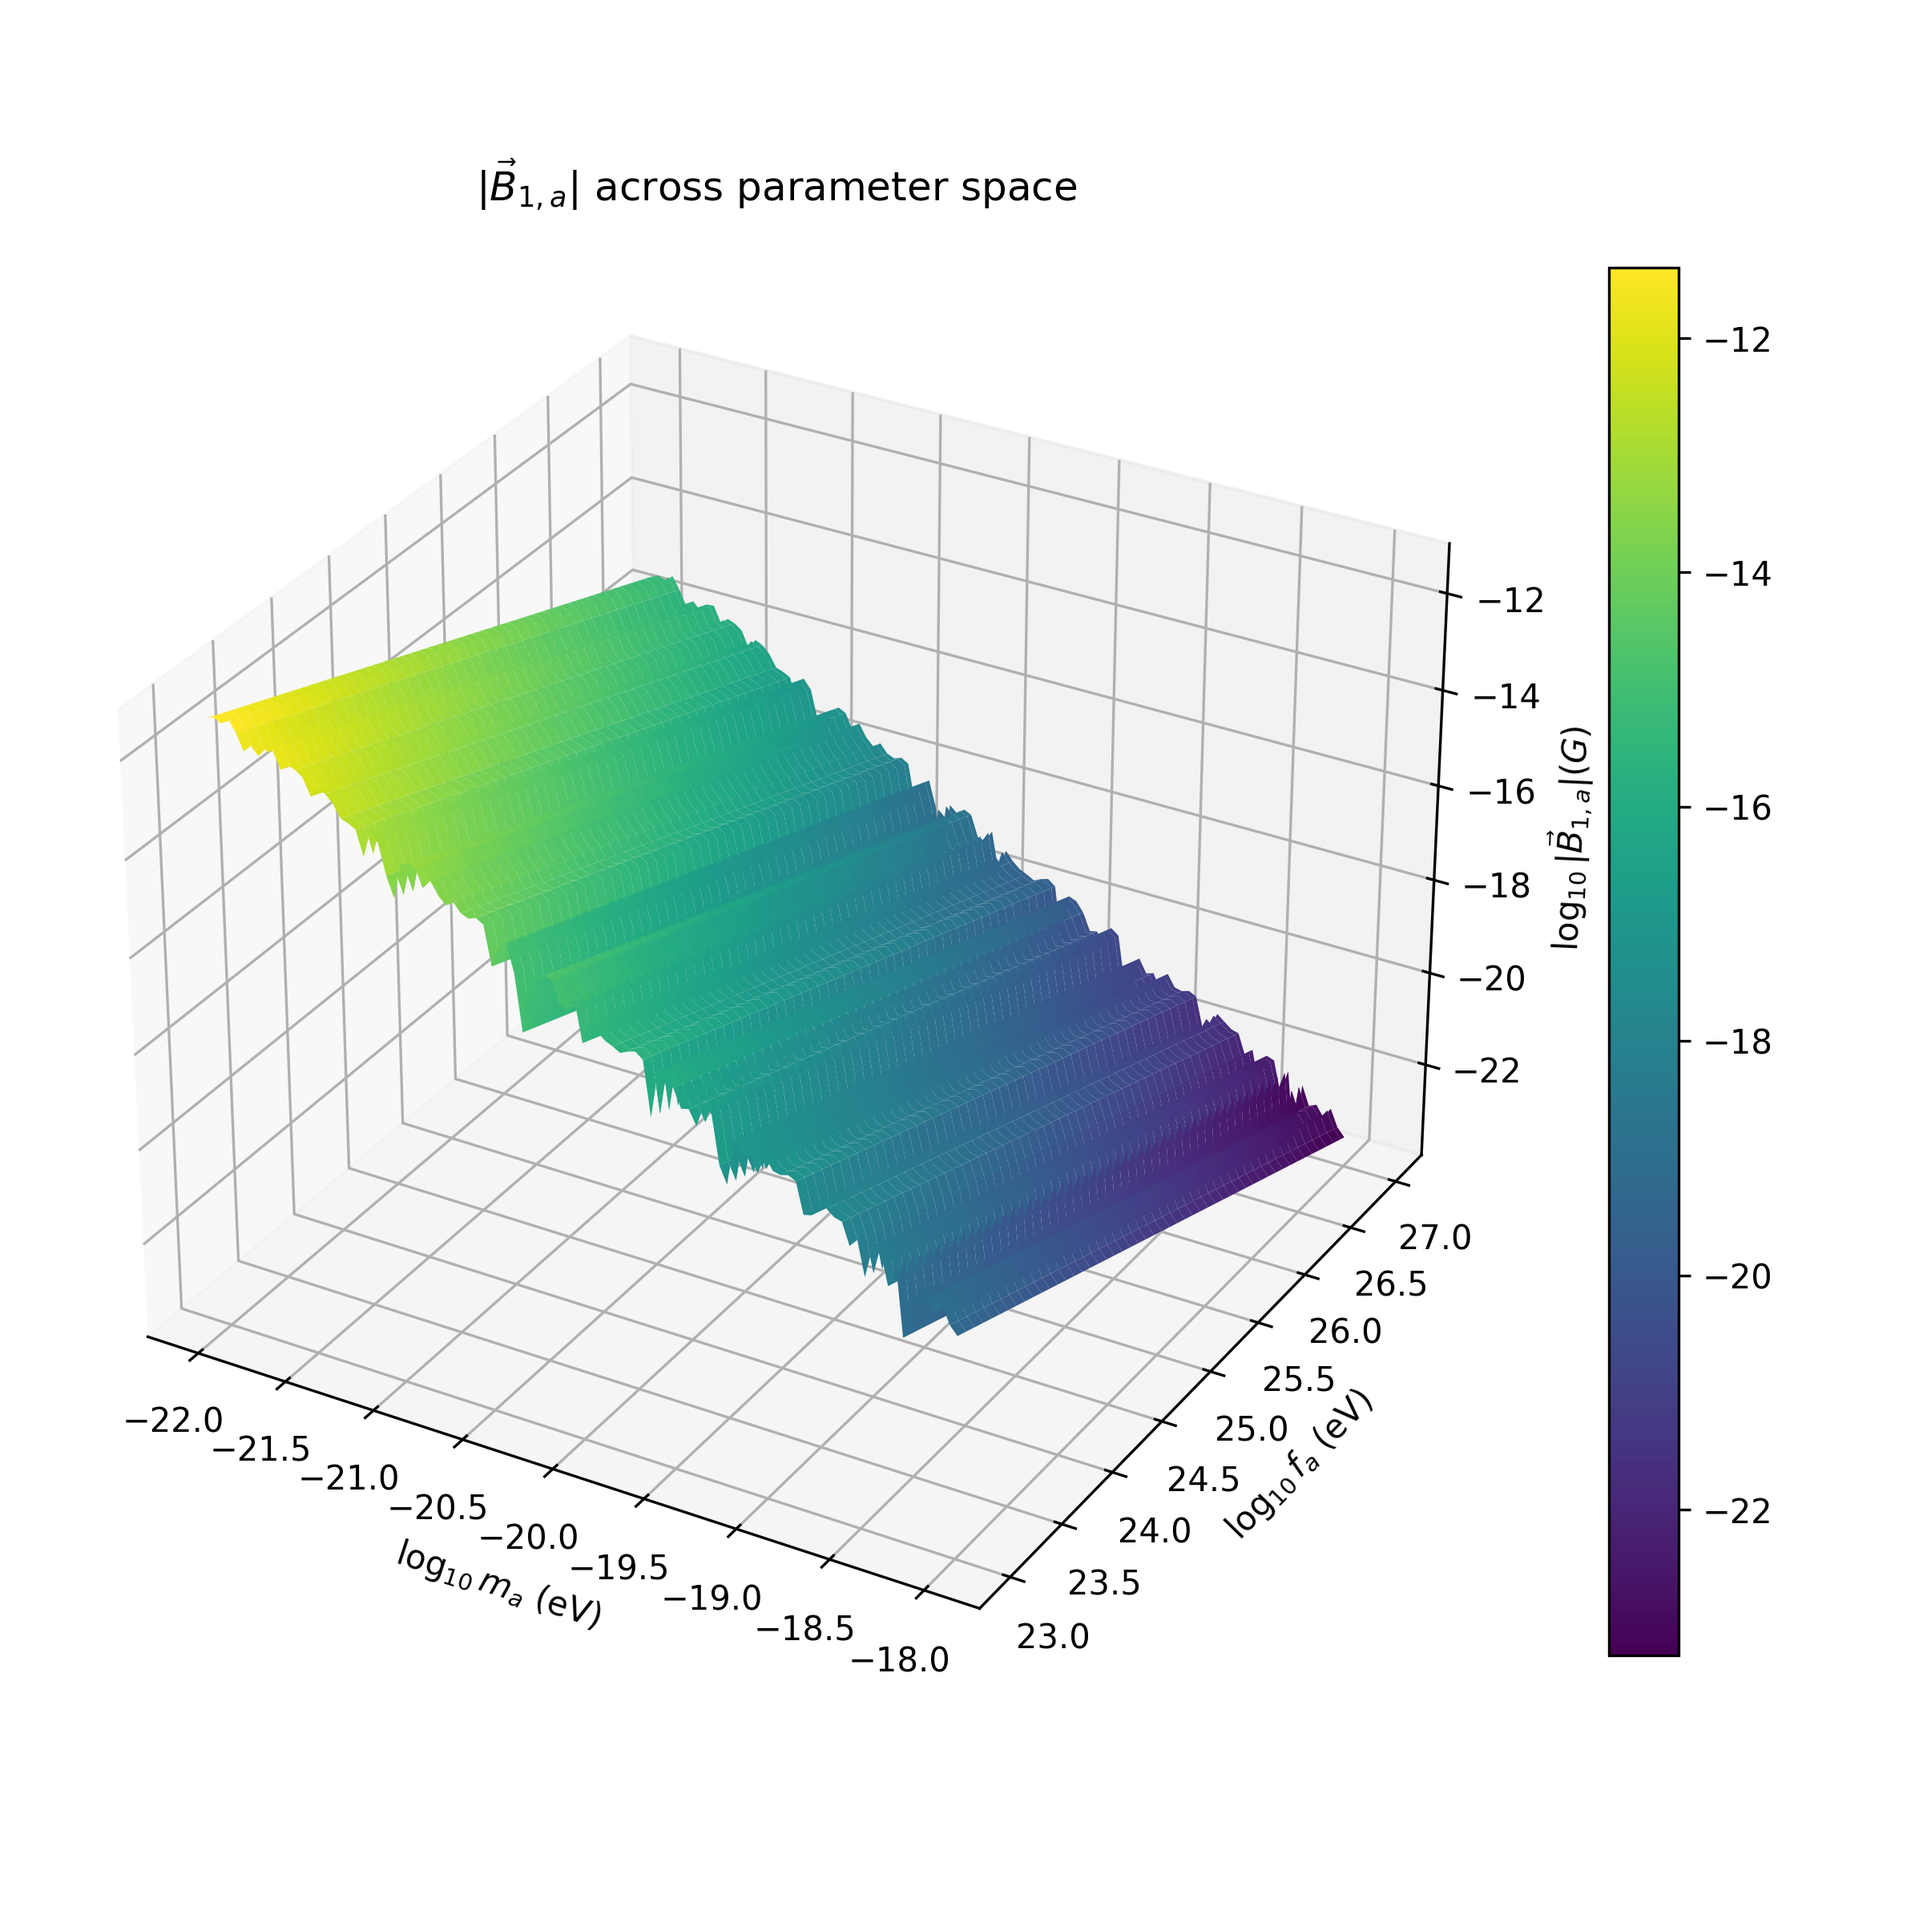
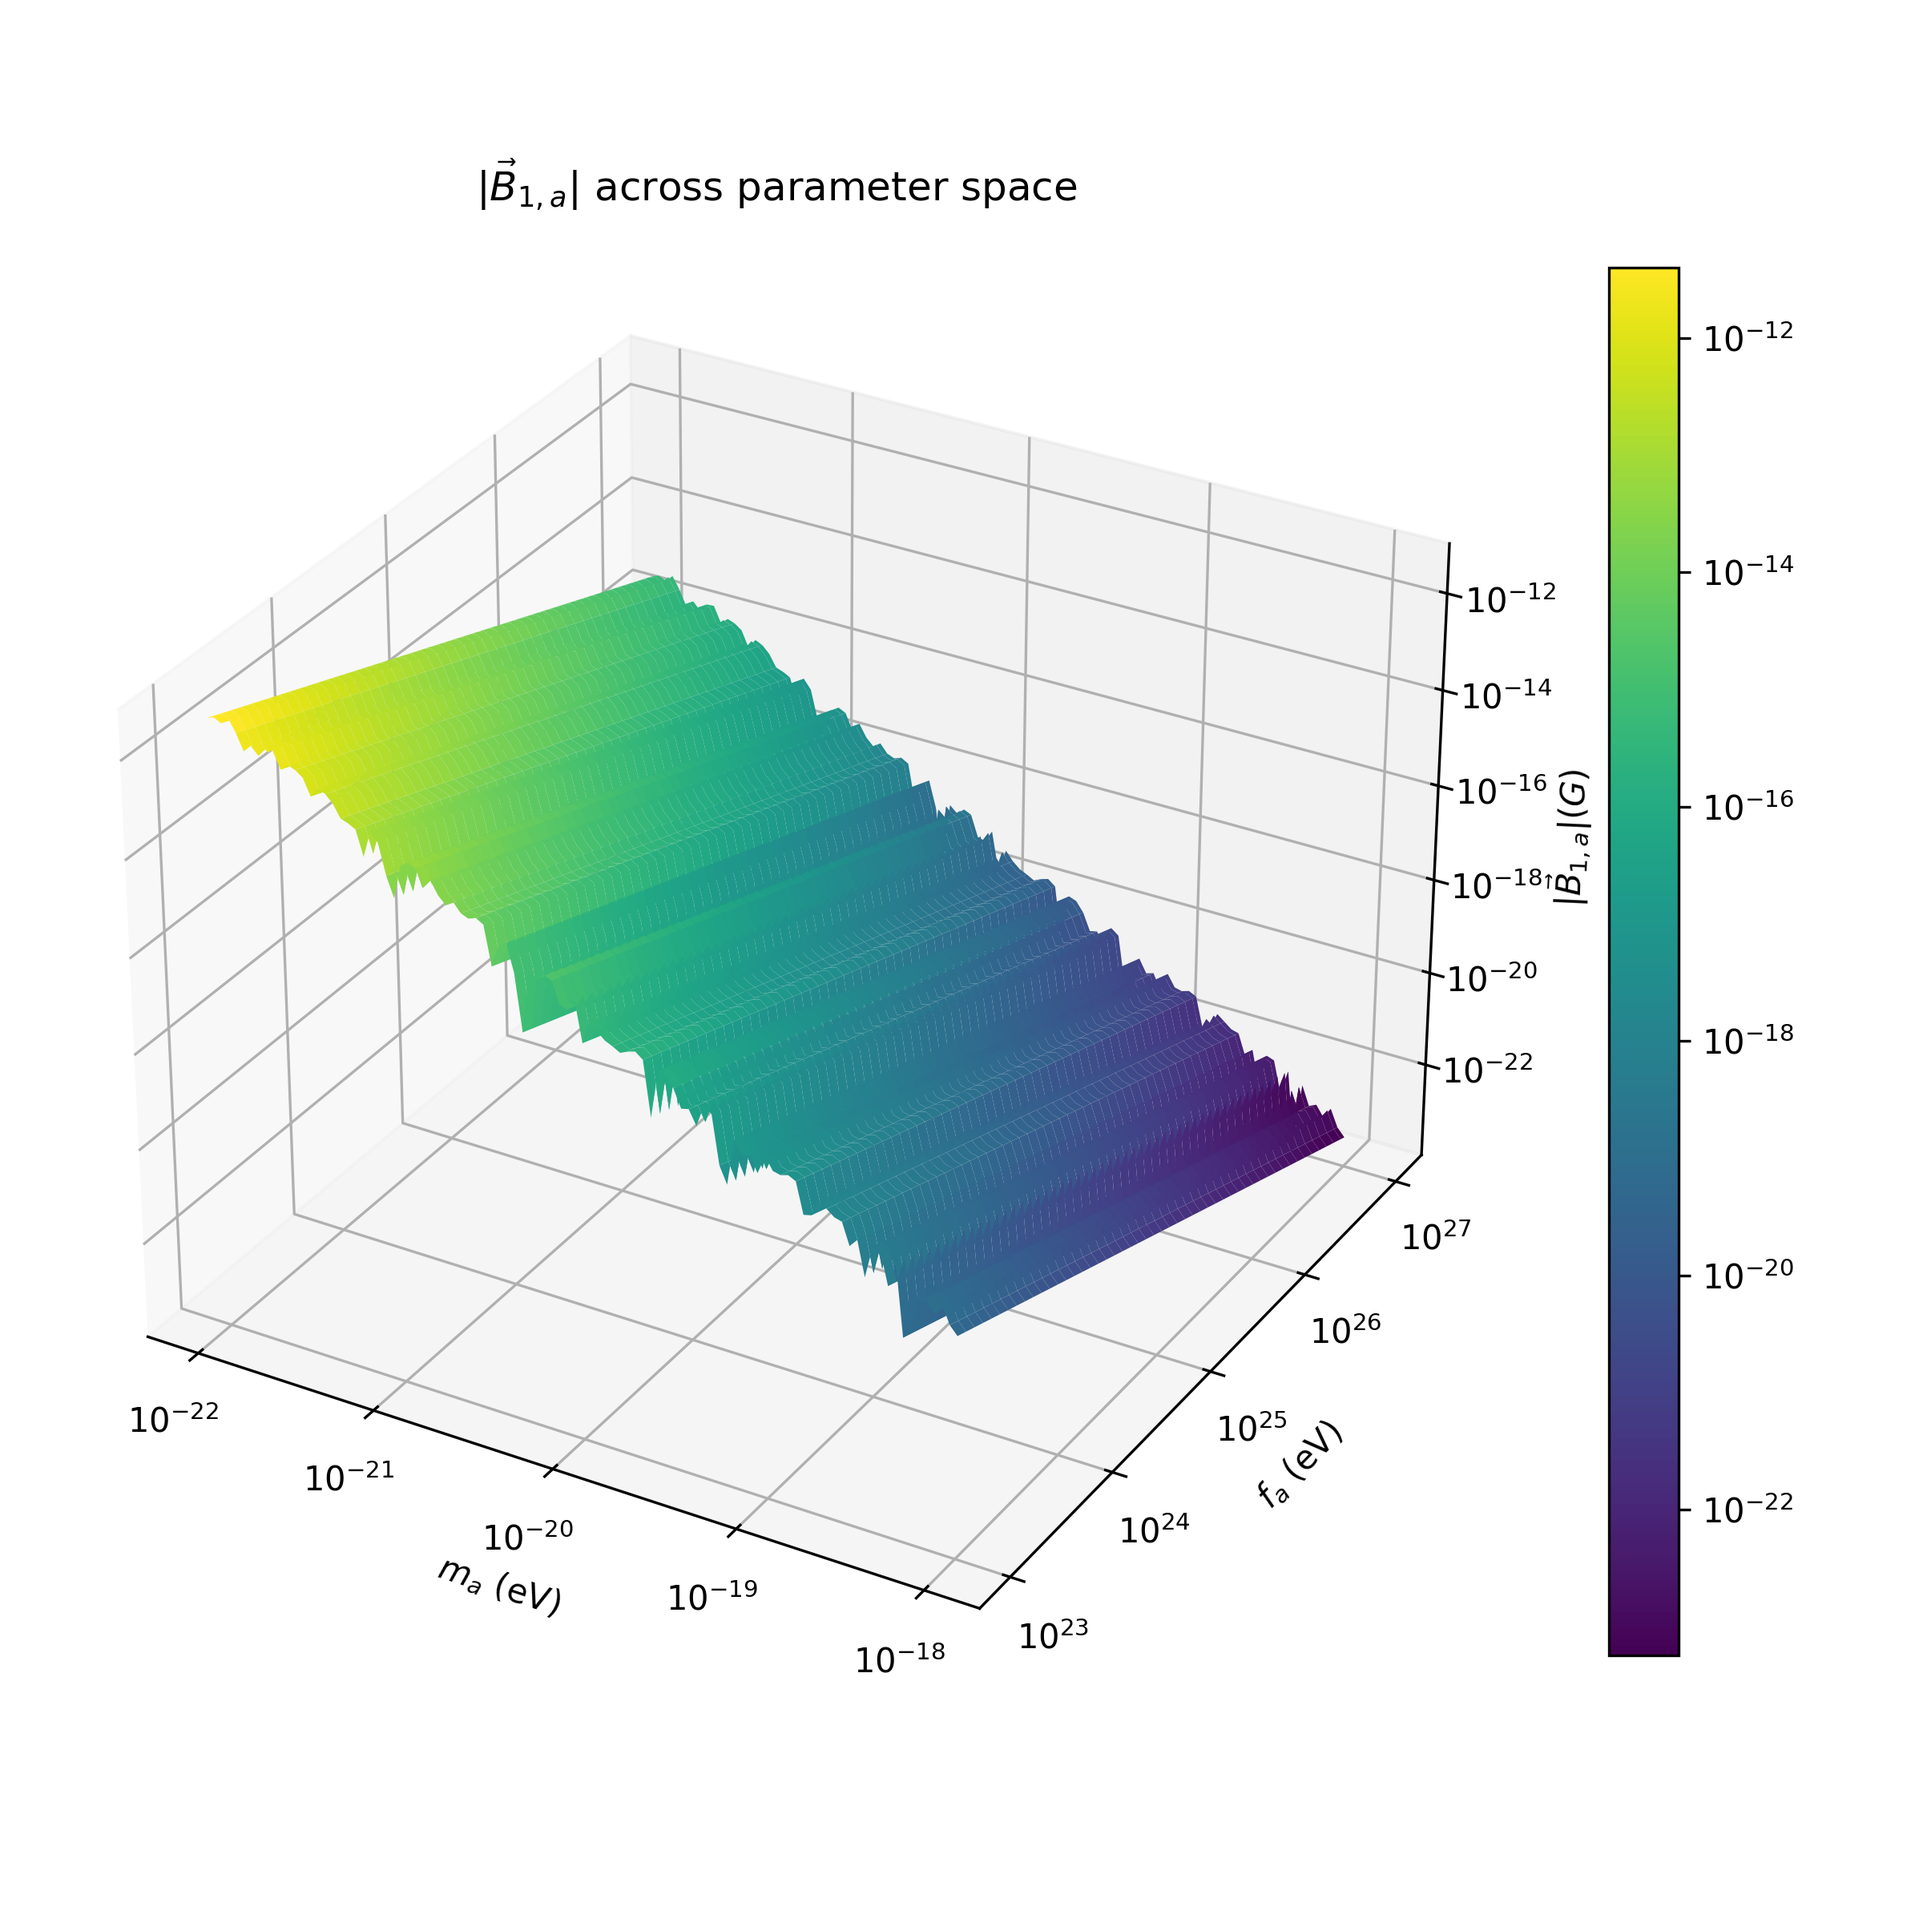
In progress

diff --git a/zeeman.py b/zeeman.py
@@ -5,6 +5,7 @@ from astropy.coordinates import SkyCoord
 from matplotlib import colormaps as cm
 from matplotlib.colors import LinearSegmentedColormap
 import matplotlib.pyplot as plt
+import matplotlib.ticker as mticker
 import numpy as np
 import os
 from scipy.constants import alpha, epsilon_0, h, hbar, G, m_e, m_p, pi, physical_constants, year
@@ -434,6 +435,18 @@ def plot_data(xs, yss, plotlabels, xlabel, ylabel, title, figure_name, xlog=Fals
     # Show the plot
     plt.show()
 
+# Format ticks for logarithmic plots
+def log_tick_formatter(value, position=None):
+    """
+    Args:
+        value (float): The tick value to format, representing the exponent in a logarithmic scale.
+        position (int, optional): The tick position.
+
+    Returns:
+        str: A formatted string representing the tick value as a power of 10, e.g., "$10^{2}$" for a value of 2.
+    """
+    return f"$10^{{{int(value)}}}$"
+
 # Plot the 2D data
 def plot2D_data(xs, ys, zs, xlabel, ylabel, zlabel, title, figure_name, xlog=False, ylog=False, zlog=False, save=False):
     """
@@ -459,22 +472,30 @@ def plot2D_data(xs, ys, zs, xlabel, ylabel, zlabel, title, figure_name, xlog=Fal
     # Surface plot
     surf = ax.plot_surface(xs, ys, zs, cmap="viridis", edgecolor="none")
 
-    # Set the axes to logarithmic scale if necessary
+    # Set major tick formatter and locator for the axes
     if xlog:
-        ax.set_xscale("log")
+        ax.xaxis.set_major_formatter(mticker.FuncFormatter(log_tick_formatter))
+        ax.xaxis.set_major_locator(mticker.MaxNLocator(integer=True))
     if ylog:
-        ax.set_yscale("log")
+        ax.yaxis.set_major_formatter(mticker.FuncFormatter(log_tick_formatter))
+        ax.yaxis.set_major_locator(mticker.MaxNLocator(integer=True))
     if zlog:
-        ax.set_zscale("log")
+        ax.zaxis.set_major_formatter(mticker.FuncFormatter(log_tick_formatter))
+        ax.zaxis.set_major_locator(mticker.MaxNLocator(integer=True))
 
-    # Labels and title
+    # Set the axes labels and title
     ax.set_xlabel(xlabel)
     ax.set_ylabel(ylabel)
     ax.set_zlabel(zlabel)
     ax.set_title(title)
 
-    # Show coloru bar
-    fig.colorbar(surf, shrink=0.75)
+    # Show colour bar
+    cbar = fig.colorbar(surf, shrink=0.75)
+    
+    # Set tick formatter for the colour bar
+    if zlog: # Assuming z-values are represented in the colour bar
+        cbar.ax.yaxis.set_major_formatter(mticker.FuncFormatter(log_tick_formatter))
+        cbar.ax.yaxis.set_major_locator(mticker.MaxNLocator(integer=True))
 
     # Adjust the spacing
     plt.tight_layout()
@@ -494,17 +515,17 @@ def plot3D_data(xs, ys, zs, ws, xlabel, ylabel, zlabel, wlabel, title, figure_na
         xs (array): x-coordinates of the data points.
         ys (array): y-coordinates of the data points.
         zs (array): z-coordinates of the data points.
-        ws (array): Values for color-coding.
+        ws (array): Values for colour-coding.
         xlabel (str): Label for the x-axis.
         ylabel (str): Label for the y-axis.
         zlabel (str): Label for the z-axis.
-        wlabel (str): Label for the colorbar.
+        wlabel (str): Label for the colour bar.
         title (str): Title of the plot.
         figure_name (str): Name of the file to save the plot (if save is True).
         xlog (bool, optional): Set the x-axis to logarithmic scale. Defaults to False.
         ylog (bool, optional): Set the y-axis to logarithmic scale. Defaults to False.
         zlog (bool, optional): Set the z-axis to logarithmic scale. Defaults to False.
-        cmap_name (str, optional): Name of the colormap to use. Defaults to "plasma".
+        cmap_name (str, optional): Name of the colour map to use. Defaults to "plasma".
         alpha (float, optional): Transparency of the markers. Defaults to 0.7.
         s (int, optional): Size of the markers. Defaults to 20.
         save (bool, optional): Whether to save the plot. Defaults to False.
@@ -514,31 +535,32 @@ def plot3D_data(xs, ys, zs, ws, xlabel, ylabel, zlabel, wlabel, title, figure_na
     fig = plt.figure(figsize=(8, 8))
     ax = fig.add_subplot(111, projection="3d")
 
-    # Get the colormap
+    # Get the colour map
     cmap = cm.get_cmap(cmap_name)
 
     # Create a scatter plot with adjustments
     scatter = ax.scatter(xs, ys, zs, c=ws, cmap=cmap, alpha=alpha, s=s)
 
-    # Add a colorbar to the plot
+    # Add a colour bar to the plot
     cbar = plt.colorbar(scatter, shrink=0.75)
     cbar.set_label(wlabel)
 
-    # Set the axes labels
+    # Set the axes labels and title
     ax.set_xlabel(xlabel)
     ax.set_ylabel(ylabel)
     ax.set_zlabel(zlabel)
+    ax.set_title(title)
 
-    # Set the axes to logarithmic scale if necessary
+    # Set major tick formatter and locator for the axes
     if xlog:
-        ax.set_xscale("log")
+        ax.xaxis.set_major_formatter(mticker.FuncFormatter(log_tick_formatter))
+        ax.xaxis.set_major_locator(mticker.MaxNLocator(integer=True))
     if ylog:
-        ax.set_yscale("log")
+        ax.yaxis.set_major_formatter(mticker.FuncFormatter(log_tick_formatter))
+        ax.yaxis.set_major_locator(mticker.MaxNLocator(integer=True))
     if zlog:
-        ax.set_zscale("log")
-    
-    # Set the title
-    plt.title(title)
+        ax.zaxis.set_major_formatter(mticker.FuncFormatter(log_tick_formatter))
+        ax.zaxis.set_major_locator(mticker.MaxNLocator(integer=True))
 
     # Adjust the spacing
     plt.tight_layout()
@@ -638,8 +660,8 @@ def main():
     B1params_d = calculate_B1("flat", "dark photon", 0, m_ds, f, epsilons, 8000 * pc_to_m * m_to_eVminus1, B_bar, real=False)
 
     # Plot B1 versus the parameter space
-    plot2D_data(np.log10(m_as), np.log10(fs), np.log10(B1params_a / 1e-4), r"$\log_{10}m_a$ (eV)", r"$\log_{10}f_a$ (eV)", r"$\log_{10}|\vec{B}_{1, a}| (G)$", r"$|\vec{B}_{1, a}|$ across parameter space", "B1paramsaxion.png", save=True)
-    plot2D_data(np.log10(m_ds), np.log10(epsilons), np.log10(B1params_d / 1e-4), r"$\log_{10}m_d$ (eV)", r"$\log_{10}\varepsilon$", r"$\log_{10}|\vec{B}_{1, \vec{A}'}| (G)$", r"$|\vec{B}_{1, \vec{A}'}|$ across parameter space", "B1paramsdarkphoton.png", save=True)
+    plot2D_data(np.log10(m_as), np.log10(fs), np.log10(B1params_a / 1e-4), r"$m_a$ (eV)", r"$f_a$ (eV)", r"$|\vec{B}_{1, a}| (G)$", r"$|\vec{B}_{1, a}|$ across parameter space", "B1paramsaxion.png", xlog=True, ylog=True, zlog=True, save=True)
+    plot2D_data(np.log10(m_ds), np.log10(epsilons), np.log10(B1params_d / 1e-4), r"$m_d$ (eV)", r"$\varepsilon$", r"$|\vec{B}_{1, \vec{A}'}| (G)$", r"$|\vec{B}_{1, \vec{A}'}|$ across parameter space", "B1paramsdarkphoton.png", xlog=True, ylog=True, zlog=True, save=True)
 
     # Calculate the period of oscillation
     period = 2 * np.pi / omega / s_to_eVminus1
